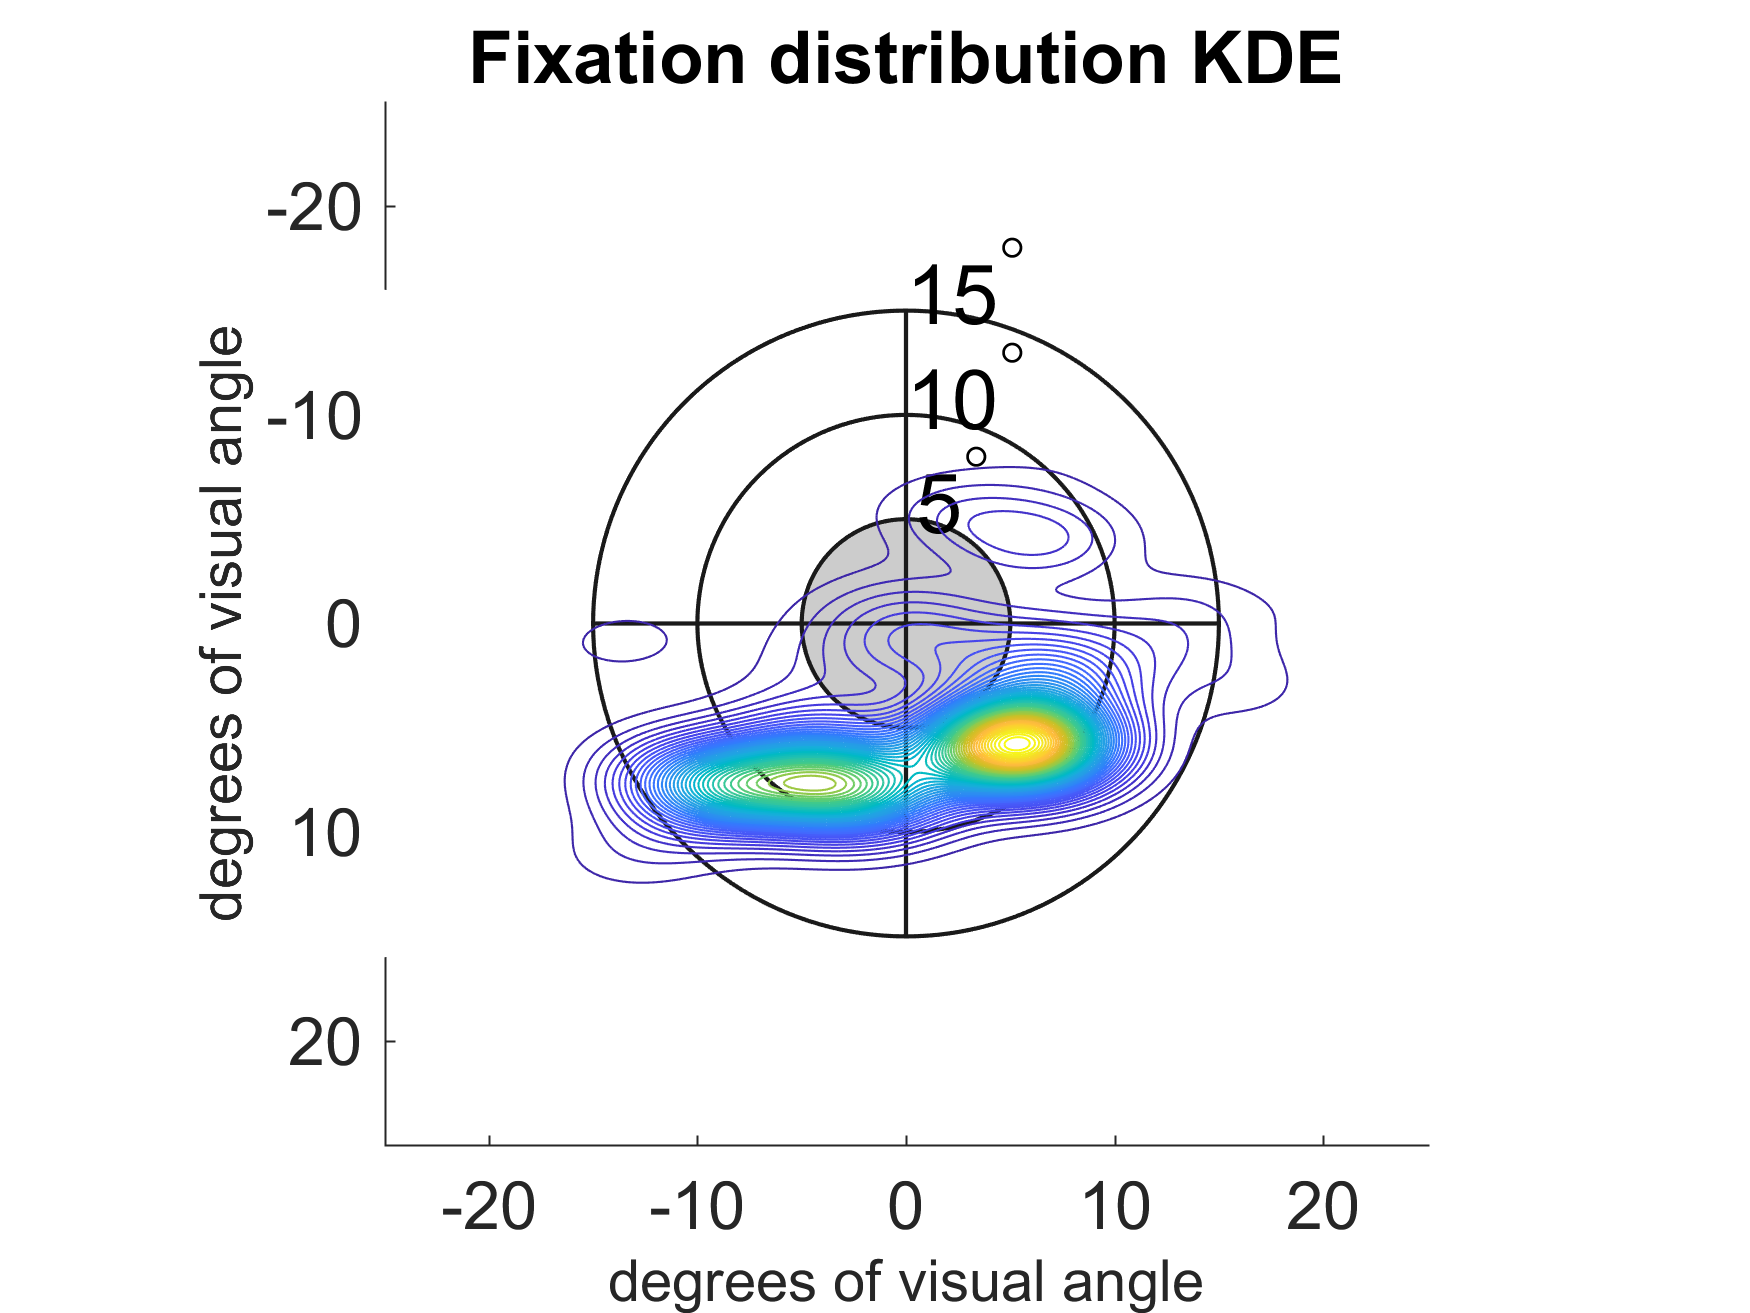
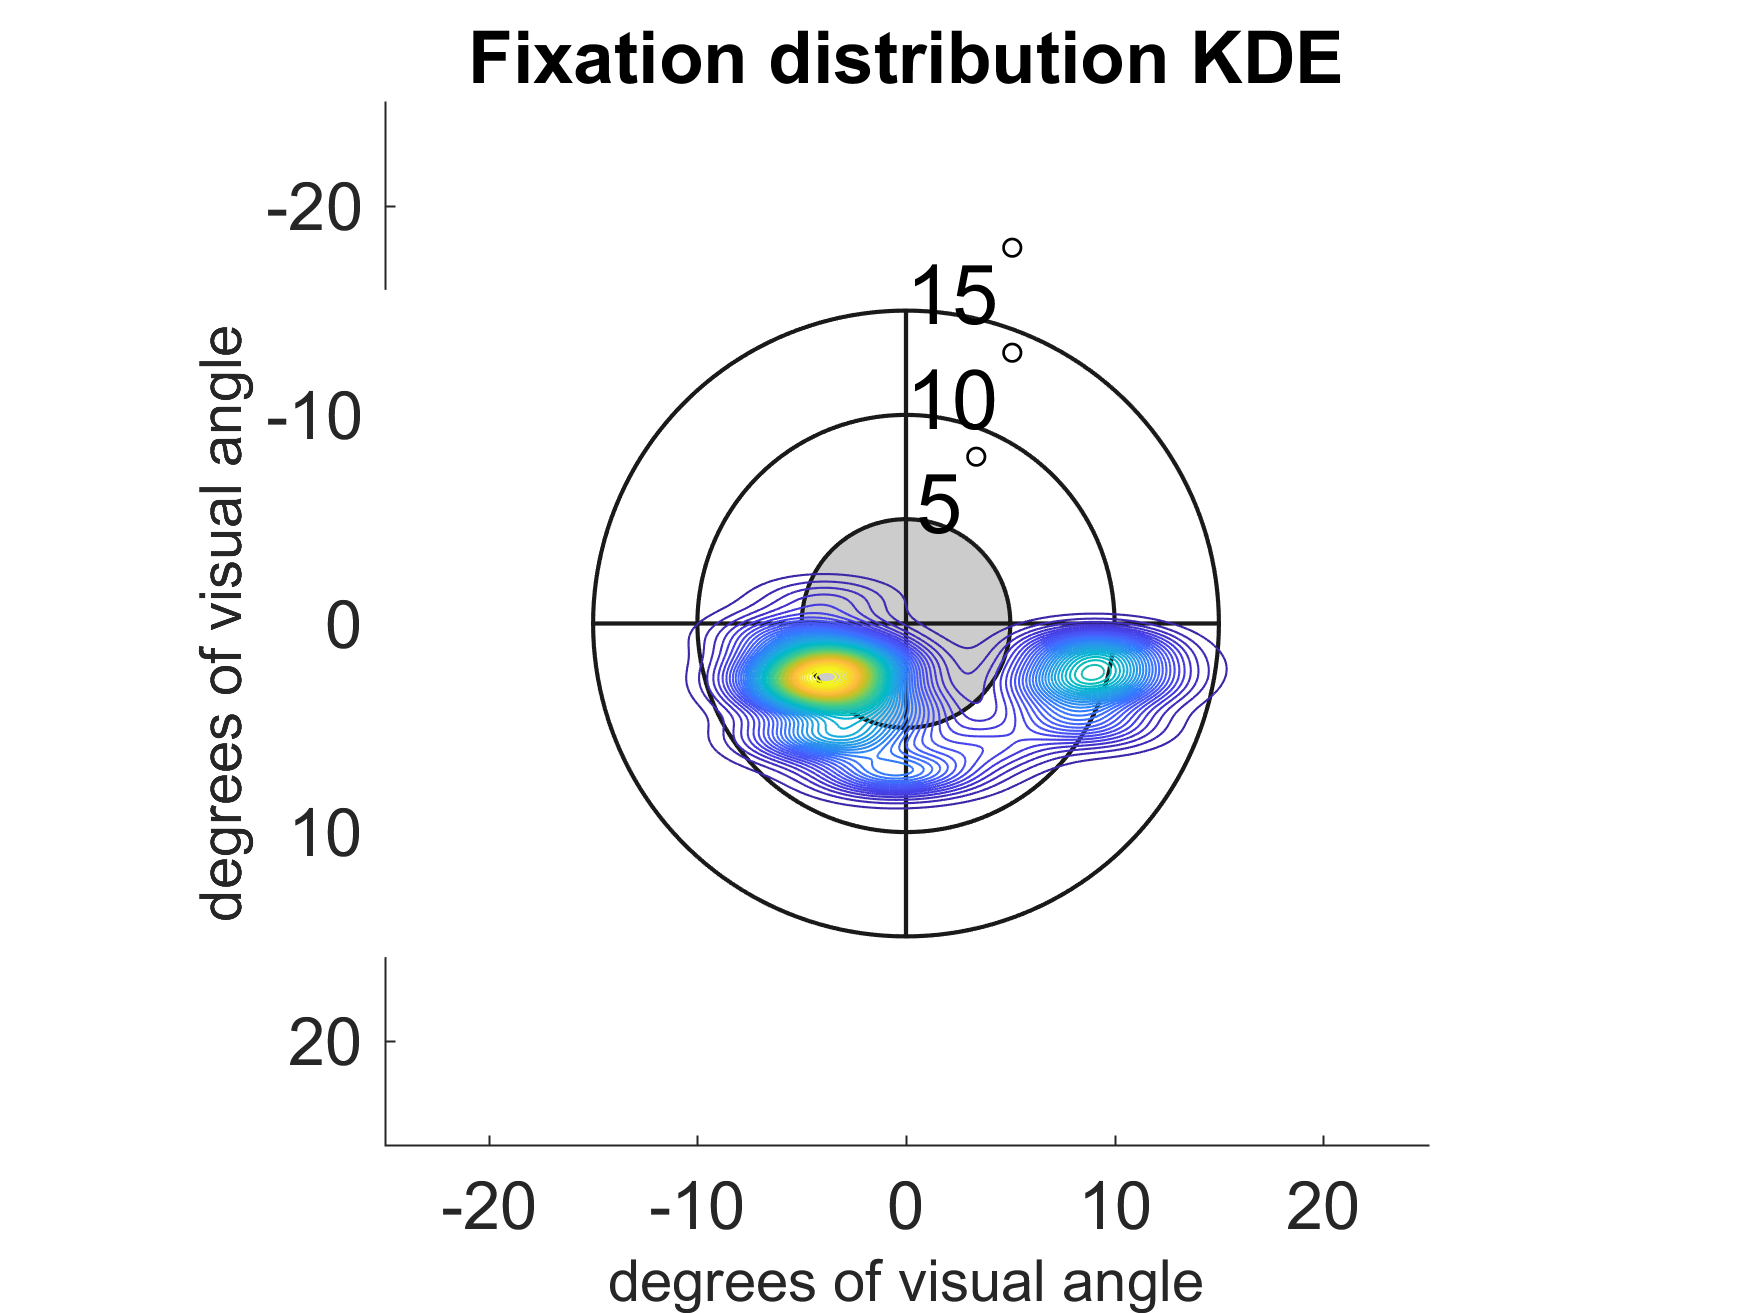
Updated eyefixation5

Changed region(s): [[0.3086, 0.3435, 0.7097, 0.687]]

diff --git a/PRL Induction procedures/utilities/eyefixation5.m b/PRL Induction procedures/utilities/eyefixation5.m
@@ -22,15 +22,20 @@ elseif EyeTracker==1
         end
     elseif EyetrackerType==2
         eye_used=0;
-        [xScreenRight, yScreenRight, xScreenLeft, yScreenLeft , ~, ~, ~, ~, ~] = Datapixx('GetEyePosition');
-        if whicheye==1
+      %  [xScreenRight, yScreenRight, xScreenLeft, yScreenLeft , ~, ~, ~, ~, ~] = Datapixx('GetEyePosition');
+               [xScreenLeft, yScreenLeft, xScreenRight, yScreenRight, ~, ~, ~, ~, ~] = Datapixx('GetEyePosition');
+
+               if whicheye==1
             pos = Datapixx('ConvertCoordSysToCustom', [xScreenLeft, yScreenLeft]);
-            [~, ~, Left_Major, Left_Minor]= Datapixx('GetPupilSize');
+         %   [~, ~, Left_Major, Left_Minor]= Datapixx('GetPupilSize');
+                             [Left_Major, Left_Minor]= Datapixx('GetPupilSize');
             newpupil_maj=Left_Major;
             newpupil_min=Left_Minor;
         elseif whicheye==2
             pos = Datapixx('ConvertCoordSysToCustom', [xScreenRight, yScreenRight]);
-            [Right_Major, Right_Minor]= Datapixx('GetPupilSize');
+        %    [Right_Major, Right_Minor]= Datapixx('GetPupilSize');
+            [~, ~, Right_Major, Right_Minor]= Datapixx('GetPupilSize');
+
             newpupil_maj=Right_Major;
             newpupil_min=Right_Minor;
         end
